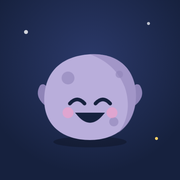
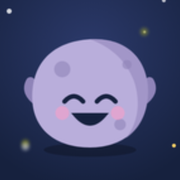
換新的 App 圖示
Claude-Session: https://claude.ai/code/session_01WhcNTpU7jgPsfyj5sVrypD

diff --git a/index.html b/index.html
@@ -1,6 +1,6 @@
 <!doctype html><html><head><meta charset=utf8><meta name=viewport content="width=device-width,initial-scale=1,viewport-fit=cover"><style>:root{color-scheme:light;box-sizing:border-box;padding-top:env(safe-area-inset-top,0px);padding-bottom:env(safe-area-inset-bottom,0px)}html{scroll-padding-top:env(safe-area-inset-top,0px)}body{margin:0;padding:0;font:14px -apple-system,BlinkMacSystemFont,sans-serif;background:#fff;color:#000}img{max-width:100%}[hidden]:not([hidden=until-found i]){display:none!important}</style><title>放學小星球</title>
-<link rel="apple-touch-icon" sizes="180x180" href="apple-touch-icon.png?v=2"><meta name="apple-mobile-web-app-title" content="放學小星球"><meta name="application-name" content="放學小星球"><link rel="manifest" href="manifest.webmanifest">
-<link rel="icon" type="image/png" href="apple-touch-icon.png?v=2">
+<link rel="apple-touch-icon" sizes="180x180" href="apple-touch-icon.png?v=3"><meta name="apple-mobile-web-app-title" content="放學小星球"><meta name="application-name" content="放學小星球"><link rel="manifest" href="manifest.webmanifest">
+<link rel="icon" type="image/png" href="apple-touch-icon.png?v=3">
 <meta name="claude:viewport-fit-sides" content="cover">
 <link rel="preconnect" href="https://fonts.googleapis.com">
 <link rel="preconnect" href="https://fonts.gstatic.com" crossorigin>
